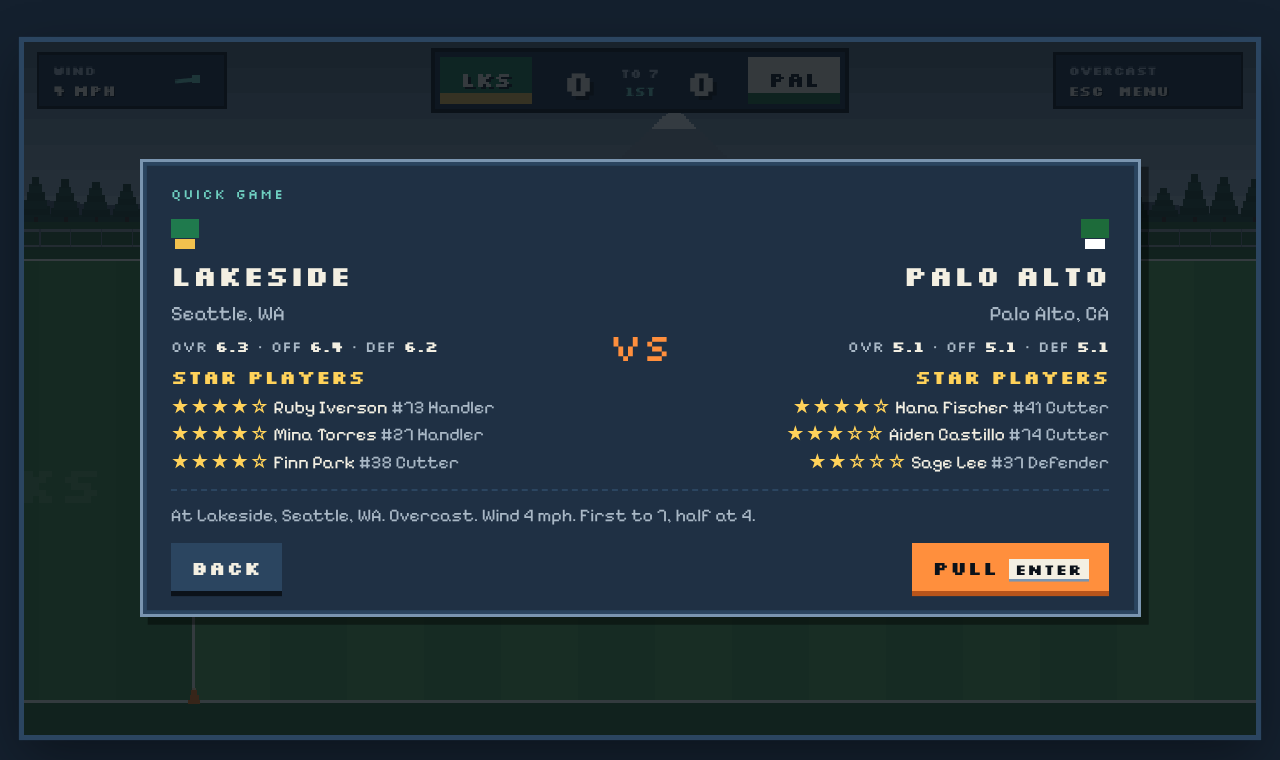
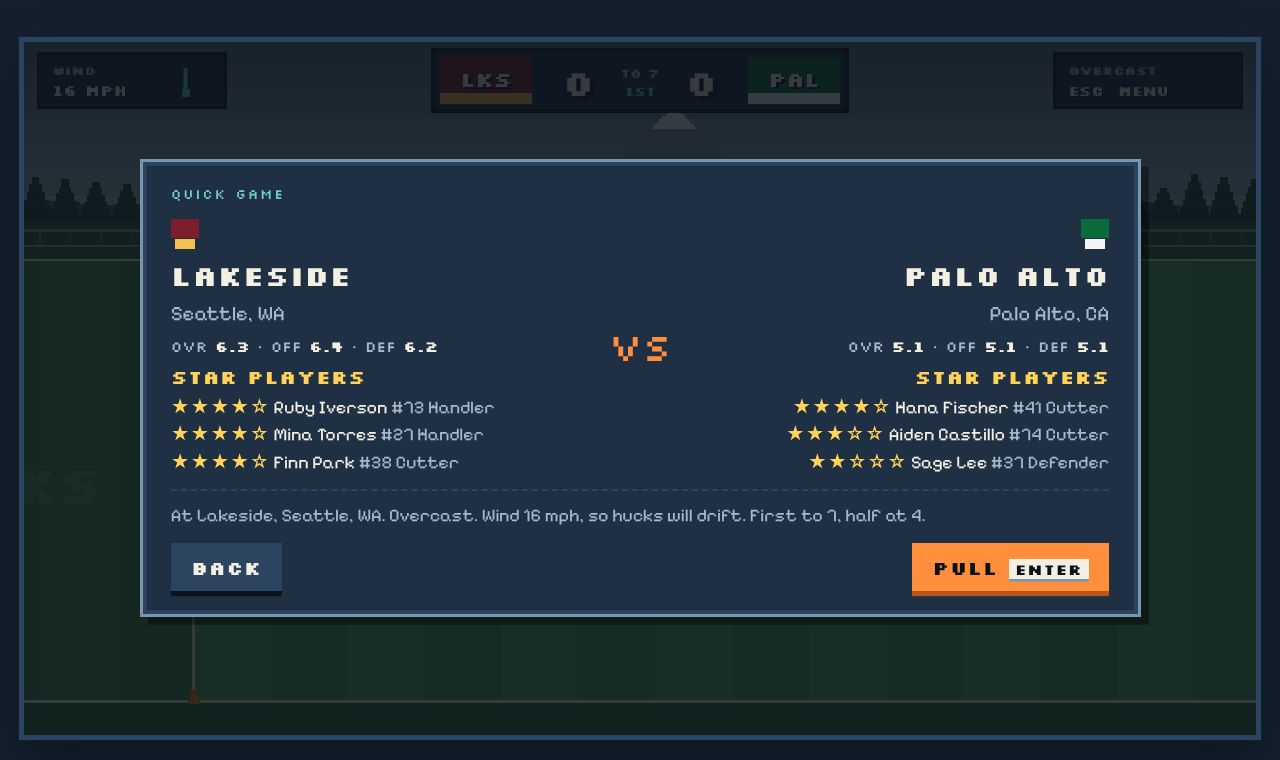
Use each school's real school colors
Colors checked against WIAA/OSAA listings, district fact sheets and
school profiles. Similar-colored matchups already switch the away
team to a light jersey.

Claude-Session: https://claude.ai/code/session_01P6GkNahnfyXP9KbBDakeKD

diff --git a/index.html b/index.html
@@ -188,25 +188,25 @@ const esc=s=>String(s).replace(/[&<>"']/g,c=>({'&':'&amp;','<':'&lt;','>':'&gt;'
 function hexRgb(h){const n=parseInt(h.slice(1),16);return[n>>16&255,n>>8&255,n&255]}
 function colorClose(a,b){const x=hexRgb(a),y=hexRgb(b);return Math.hypot(x[0]-y[0],x[1]-y[1],x[2]-y[2])<120}
 
-// ---------------------------------------------------------------- teams (real West Coast high school programs; colors are placeholders)
+// ---------------------------------------------------------------- teams (real West Coast high school programs and their school colors)
 const TEAMS=[
- {id:'lks',name:'Lakeside',city:'Seattle',st:'WA',abbr:'LKS',c1:'#1f7a4d',c2:'#f2c14e'},
- {id:'gar',name:'Garfield',city:'Seattle',st:'WA',abbr:'GAR',c1:'#5b3a99',c2:'#f5c542'},
- {id:'roo',name:'Roosevelt',city:'Seattle',st:'WA',abbr:'RHS',c1:'#8a1f2c',c2:'#e8d7a8'},
- {id:'bal',name:'Ballard',city:'Seattle',st:'WA',abbr:'BAL',c1:'#c62828',c2:'#1b1b1b'},
- {id:'bai',name:'Bainbridge',city:'Bainbridge Island',st:'WA',abbr:'BAI',c1:'#1e4fa3',c2:'#f2d14b'},
- {id:'nws',name:'Northwest School',city:'Seattle',st:'WA',abbr:'NWS',c1:'#0f8a8a',c2:'#f0f0f0'},
- {id:'gra',name:'Grant',city:'Portland',st:'OR',abbr:'GRA',c1:'#3b2a6e',c2:'#d9d9d9'},
- {id:'lin',name:'Lincoln',city:'Portland',st:'OR',abbr:'LIN',c1:'#b3122e',c2:'#f4f4f4'},
- {id:'cle',name:'Cleveland',city:'Portland',st:'OR',abbr:'CLE',c1:'#2364aa',c2:'#f7b32b'},
- {id:'cgs',name:'Catlin Gabel',city:'Portland',st:'OR',abbr:'CGS',c1:'#16325c',c2:'#9ec5e8'},
- {id:'seh',name:'South Eugene',city:'Eugene',st:'OR',abbr:'SEH',c1:'#263238',c2:'#ffb300',elite:true},
- {id:'pal',name:'Palo Alto',city:'Palo Alto',st:'CA',abbr:'PAL',c1:'#1d6b3a',c2:'#ffffff'},
- {id:'gun',name:'Gunn',city:'Palo Alto',st:'CA',abbr:'GUN',c1:'#a4161a',c2:'#111111'},
- {id:'bhs',name:'Berkeley',city:'Berkeley',st:'CA',abbr:'BHS',c1:'#d99a00',c2:'#7a1010'},
- {id:'bod',name:"Bishop O'Dowd",city:'Oakland',st:'CA',abbr:'BOD',c1:'#2d6a2e',c2:'#e6c34a'},
- {id:'men',name:'Menlo School',city:'Atherton',st:'CA',abbr:'MEN',c1:'#1c3f94',c2:'#f28c28'},
- {id:'lws',name:'Lick-Wilmerding',city:'San Francisco',st:'CA',abbr:'LWS',c1:'#e85d04',c2:'#1a1a1a'},
+ {id:'lks',name:'Lakeside',city:'Seattle',st:'WA',abbr:'LKS',c1:'#7a1f2b',c2:'#f2c14e'},
+ {id:'gar',name:'Garfield',city:'Seattle',st:'WA',abbr:'GAR',c1:'#5b2d8e',c2:'#f4f4f4'},
+ {id:'roo',name:'Roosevelt',city:'Seattle',st:'WA',abbr:'RHS',c1:'#1f8a3a',c2:'#f2c230'},
+ {id:'bal',name:'Ballard',city:'Seattle',st:'WA',abbr:'BAL',c1:'#c8102e',c2:'#111111'},
+ {id:'bai',name:'Bainbridge',city:'Bainbridge Island',st:'WA',abbr:'BAI',c1:'#13294b',c2:'#f1b82d'},
+ {id:'nws',name:'Northwest School',city:'Seattle',st:'WA',abbr:'NWS',c1:'#7b1e34',c2:'#f2f2f2'},
+ {id:'gra',name:'Grant',city:'Portland',st:'OR',abbr:'GRA',c1:'#1f4fa0',c2:'#a3abb3'},
+ {id:'lin',name:'Lincoln',city:'Portland',st:'OR',abbr:'LIN',c1:'#c8102e',c2:'#f4f4f4'},
+ {id:'cle',name:'Cleveland',city:'Portland',st:'OR',abbr:'CLE',c1:'#2a9d3c',c2:'#ffe14d'},
+ {id:'cgs',name:'Catlin Gabel',city:'Portland',st:'OR',abbr:'CGS',c1:'#1f4ed8',c2:'#f4f4f4'},
+ {id:'seh',name:'South Eugene',city:'Eugene',st:'OR',abbr:'SEH',c1:'#4b2e83',c2:'#f4f4f4',elite:true},
+ {id:'pal',name:'Palo Alto',city:'Palo Alto',st:'CA',abbr:'PAL',c1:'#0b6b3a',c2:'#f4f4f4'},
+ {id:'gun',name:'Gunn',city:'Palo Alto',st:'CA',abbr:'GUN',c1:'#b0151d',c2:'#111111'},
+ {id:'bhs',name:'Berkeley',city:'Berkeley',st:'CA',abbr:'BHS',c1:'#c1121f',c2:'#f5c518'},
+ {id:'bod',name:"Bishop O'Dowd",city:'Oakland',st:'CA',abbr:'BOD',c1:'#161616',c2:'#d4a72c'},
+ {id:'men',name:'Menlo School',city:'Atherton',st:'CA',abbr:'MEN',c1:'#0b2a5b',c2:'#e8b52a'},
+ {id:'lws',name:'Lick-Wilmerding',city:'San Francisco',st:'CA',abbr:'LWS',c1:'#141414',c2:'#f0b323'},
 ];
 const TEAM=id=>TEAMS.find(t=>t.id===id);
 const STATE_NAME={WA:'Washington',OR:'Oregon',CA:'California'};
@@ -1104,7 +1104,7 @@ function showTeamPick(eyebrow,title,exclude,cb,back){
   show(`<div class="screen"><div class="panel" style="width:calc(var(--u)*820)">
     <div class="row between"><div><div class="eyebrow">${esc(eyebrow)}</div><h2>${esc(title)}</h2></div><button class="btn alt small" id="tback">Back</button></div>
     <div class="states">${cols}</div>
-    <p class="dim" style="font-size:calc(var(--u)*13)">Real schools, fictional players. Rosters are generated. Colors are stand-ins, not official.</p>
+    <p class="dim" style="font-size:calc(var(--u)*13)">Real schools in their school colors. Every player is fictional and generated.</p>
   </div></div>`);
   ui.querySelectorAll('.tile').forEach(b=>b.addEventListener('click',()=>{SFX.click();cb(b.dataset.id)}));
   on('tback',back||showTitle);

diff --git a/src/pacific-huck.html b/src/pacific-huck.html
@@ -181,25 +181,25 @@ const esc=s=>String(s).replace(/[&<>"']/g,c=>({'&':'&amp;','<':'&lt;','>':'&gt;'
 function hexRgb(h){const n=parseInt(h.slice(1),16);return[n>>16&255,n>>8&255,n&255]}
 function colorClose(a,b){const x=hexRgb(a),y=hexRgb(b);return Math.hypot(x[0]-y[0],x[1]-y[1],x[2]-y[2])<120}
 
-// ---------------------------------------------------------------- teams (real West Coast high school programs; colors are placeholders)
+// ---------------------------------------------------------------- teams (real West Coast high school programs and their school colors)
 const TEAMS=[
- {id:'lks',name:'Lakeside',city:'Seattle',st:'WA',abbr:'LKS',c1:'#1f7a4d',c2:'#f2c14e'},
- {id:'gar',name:'Garfield',city:'Seattle',st:'WA',abbr:'GAR',c1:'#5b3a99',c2:'#f5c542'},
- {id:'roo',name:'Roosevelt',city:'Seattle',st:'WA',abbr:'RHS',c1:'#8a1f2c',c2:'#e8d7a8'},
- {id:'bal',name:'Ballard',city:'Seattle',st:'WA',abbr:'BAL',c1:'#c62828',c2:'#1b1b1b'},
- {id:'bai',name:'Bainbridge',city:'Bainbridge Island',st:'WA',abbr:'BAI',c1:'#1e4fa3',c2:'#f2d14b'},
- {id:'nws',name:'Northwest School',city:'Seattle',st:'WA',abbr:'NWS',c1:'#0f8a8a',c2:'#f0f0f0'},
- {id:'gra',name:'Grant',city:'Portland',st:'OR',abbr:'GRA',c1:'#3b2a6e',c2:'#d9d9d9'},
- {id:'lin',name:'Lincoln',city:'Portland',st:'OR',abbr:'LIN',c1:'#b3122e',c2:'#f4f4f4'},
- {id:'cle',name:'Cleveland',city:'Portland',st:'OR',abbr:'CLE',c1:'#2364aa',c2:'#f7b32b'},
- {id:'cgs',name:'Catlin Gabel',city:'Portland',st:'OR',abbr:'CGS',c1:'#16325c',c2:'#9ec5e8'},
- {id:'seh',name:'South Eugene',city:'Eugene',st:'OR',abbr:'SEH',c1:'#263238',c2:'#ffb300',elite:true},
- {id:'pal',name:'Palo Alto',city:'Palo Alto',st:'CA',abbr:'PAL',c1:'#1d6b3a',c2:'#ffffff'},
- {id:'gun',name:'Gunn',city:'Palo Alto',st:'CA',abbr:'GUN',c1:'#a4161a',c2:'#111111'},
- {id:'bhs',name:'Berkeley',city:'Berkeley',st:'CA',abbr:'BHS',c1:'#d99a00',c2:'#7a1010'},
- {id:'bod',name:"Bishop O'Dowd",city:'Oakland',st:'CA',abbr:'BOD',c1:'#2d6a2e',c2:'#e6c34a'},
- {id:'men',name:'Menlo School',city:'Atherton',st:'CA',abbr:'MEN',c1:'#1c3f94',c2:'#f28c28'},
- {id:'lws',name:'Lick-Wilmerding',city:'San Francisco',st:'CA',abbr:'LWS',c1:'#e85d04',c2:'#1a1a1a'},
+ {id:'lks',name:'Lakeside',city:'Seattle',st:'WA',abbr:'LKS',c1:'#7a1f2b',c2:'#f2c14e'},
+ {id:'gar',name:'Garfield',city:'Seattle',st:'WA',abbr:'GAR',c1:'#5b2d8e',c2:'#f4f4f4'},
+ {id:'roo',name:'Roosevelt',city:'Seattle',st:'WA',abbr:'RHS',c1:'#1f8a3a',c2:'#f2c230'},
+ {id:'bal',name:'Ballard',city:'Seattle',st:'WA',abbr:'BAL',c1:'#c8102e',c2:'#111111'},
+ {id:'bai',name:'Bainbridge',city:'Bainbridge Island',st:'WA',abbr:'BAI',c1:'#13294b',c2:'#f1b82d'},
+ {id:'nws',name:'Northwest School',city:'Seattle',st:'WA',abbr:'NWS',c1:'#7b1e34',c2:'#f2f2f2'},
+ {id:'gra',name:'Grant',city:'Portland',st:'OR',abbr:'GRA',c1:'#1f4fa0',c2:'#a3abb3'},
+ {id:'lin',name:'Lincoln',city:'Portland',st:'OR',abbr:'LIN',c1:'#c8102e',c2:'#f4f4f4'},
+ {id:'cle',name:'Cleveland',city:'Portland',st:'OR',abbr:'CLE',c1:'#2a9d3c',c2:'#ffe14d'},
+ {id:'cgs',name:'Catlin Gabel',city:'Portland',st:'OR',abbr:'CGS',c1:'#1f4ed8',c2:'#f4f4f4'},
+ {id:'seh',name:'South Eugene',city:'Eugene',st:'OR',abbr:'SEH',c1:'#4b2e83',c2:'#f4f4f4',elite:true},
+ {id:'pal',name:'Palo Alto',city:'Palo Alto',st:'CA',abbr:'PAL',c1:'#0b6b3a',c2:'#f4f4f4'},
+ {id:'gun',name:'Gunn',city:'Palo Alto',st:'CA',abbr:'GUN',c1:'#b0151d',c2:'#111111'},
+ {id:'bhs',name:'Berkeley',city:'Berkeley',st:'CA',abbr:'BHS',c1:'#c1121f',c2:'#f5c518'},
+ {id:'bod',name:"Bishop O'Dowd",city:'Oakland',st:'CA',abbr:'BOD',c1:'#161616',c2:'#d4a72c'},
+ {id:'men',name:'Menlo School',city:'Atherton',st:'CA',abbr:'MEN',c1:'#0b2a5b',c2:'#e8b52a'},
+ {id:'lws',name:'Lick-Wilmerding',city:'San Francisco',st:'CA',abbr:'LWS',c1:'#141414',c2:'#f0b323'},
 ];
 const TEAM=id=>TEAMS.find(t=>t.id===id);
 const STATE_NAME={WA:'Washington',OR:'Oregon',CA:'California'};
@@ -1097,7 +1097,7 @@ function showTeamPick(eyebrow,title,exclude,cb,back){
   show(`<div class="screen"><div class="panel" style="width:calc(var(--u)*820)">
     <div class="row between"><div><div class="eyebrow">${esc(eyebrow)}</div><h2>${esc(title)}</h2></div><button class="btn alt small" id="tback">Back</button></div>
     <div class="states">${cols}</div>
-    <p class="dim" style="font-size:calc(var(--u)*13)">Real schools, fictional players. Rosters are generated. Colors are stand-ins, not official.</p>
+    <p class="dim" style="font-size:calc(var(--u)*13)">Real schools in their school colors. Every player is fictional and generated.</p>
   </div></div>`);
   ui.querySelectorAll('.tile').forEach(b=>b.addEventListener('click',()=>{SFX.click();cb(b.dataset.id)}));
   on('tback',back||showTitle);

diff --git a/README.md b/README.md
@@ -8,7 +8,7 @@ Open `index.html` in a browser to play. It's a single file with no build step. `
 - **Quick game:** pick any two of 17 real high school programs from Washington, Oregon and California and play to 7.
 - **Career:** make a player (Handler, Cutter or Defender), join a school and play four seasons. You get an 8-game schedule, the Pacific Championships bracket, XP, level-ups and skill points to spend on Throws, Speed, Hands, Hops and Defense.
 
-The schools are real. Every player is generated and fictional, and team colors are placeholders.
+The schools are real and wear their actual school colors. Every player is generated and fictional.
 
 ## Controls (laptop)
 | Input | Action |
